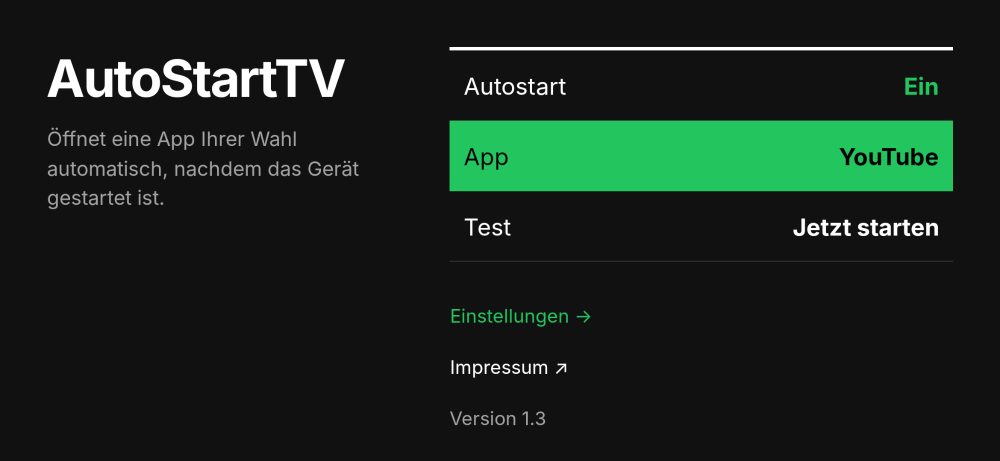
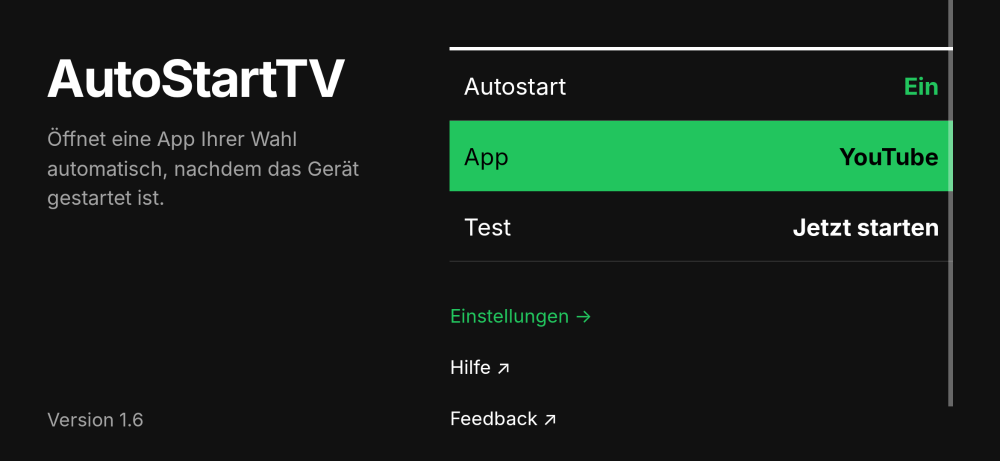
Add help link and an explanation for the start delay
- Help link (maltethier.de/autostarttv/Help.html) between settings and feedback
- Settings explain why a 5-10 second delay is recommended
- Version moved to the bottom of the left column in landscape
- Version 1.6

Claude-Session: https://claude.ai/code/session_01Mzgtb4TiVnagej2P19AmY4

diff --git a/app/src/main/java/de/autostarttv/MainActivity.java b/app/src/main/java/de/autostarttv/MainActivity.java
@@ -41,7 +41,10 @@ public class MainActivity extends Activity {
         settingsLink.setOnClickListener(v ->
                 startActivity(new Intent(this, SettingsActivity.class)));
         findViewById(R.id.text_feedback).setOnClickListener(v -> sendFeedback());
-        findViewById(R.id.text_imprint).setOnClickListener(v -> openImprint());
+        findViewById(R.id.text_help).setOnClickListener(v ->
+                openUrl(R.string.help_url, R.string.help_title));
+        findViewById(R.id.text_imprint).setOnClickListener(v ->
+                openUrl(R.string.imprint_url, R.string.imprint_title));
         ((TextView) findViewById(R.id.text_version))
                 .setText(getString(R.string.version, versionName()));
 
@@ -147,13 +150,14 @@ public class MainActivity extends Activity {
         }
     }
 
-    private void openImprint() {
-        Intent intent = new Intent(Intent.ACTION_VIEW, Uri.parse(getString(R.string.imprint_url)));
+    /** Opens a web page; shows the address if there is no browser (common on TVs). */
+    private void openUrl(int urlRes, int titleRes) {
+        String url = getString(urlRes);
         try {
-            startActivity(intent);
+            startActivity(new Intent(Intent.ACTION_VIEW, Uri.parse(url)));
         } catch (ActivityNotFoundException e) {
-            ChoiceDialog.show(this, getString(R.string.imprint_title),
-                    getString(R.string.imprint_no_browser),
+            String address = url.replaceFirst("^https?://", "");
+            ChoiceDialog.show(this, getString(titleRes), getString(R.string.no_browser, address),
                     Collections.singletonList(getString(R.string.ok)), null, -1, null);
         }
     }

diff --git a/README.md b/README.md
@@ -18,7 +18,8 @@ eine Spalte im Hochformat. Bedienbar mit Fernbedienung und Touch.
 2. **App** wählen und die gewünschte App auswählen.
 3. **Autostart** steht dann auf *Ein* (umschalten mit OK).
 4. **Einstellungen →** öffnen (grün hervorgehoben, solange etwas fehlt):
-   - optional **Verzögerung** einstellen (0–30 Sekunden nach dem Start),
+   - **Verzögerung** einstellen – empfohlen 5–10 Sekunden, damit die Startseite des Sticks
+     die gewünschte App nicht wieder überdeckt,
    - **Nach Standby öffnen** einschalten (auf Fernsehern schon an),
    - „Über anderen Apps einblenden“ erteilen.
 
@@ -41,6 +42,7 @@ Feedback: **Feedback ↗** öffnet die E-Mail-App an feedback@maltethier.de mit 
    ```
 6. Mit **Test** prüfen, ob die App startet.
 
+Hilfe: https://maltethier.de/autostarttv/Help.html  
 Impressum: https://maltethier.de/impressum.html
 
 ## Bauen
